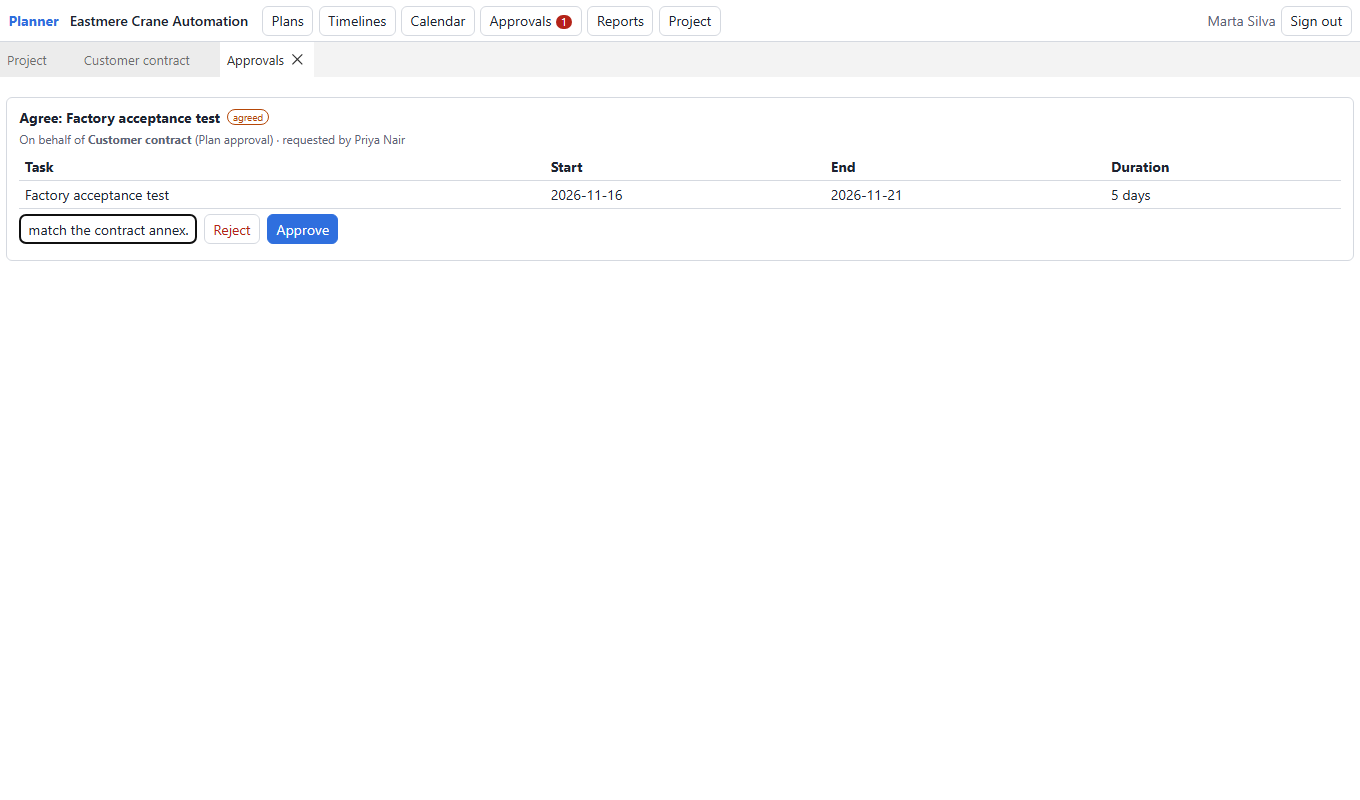
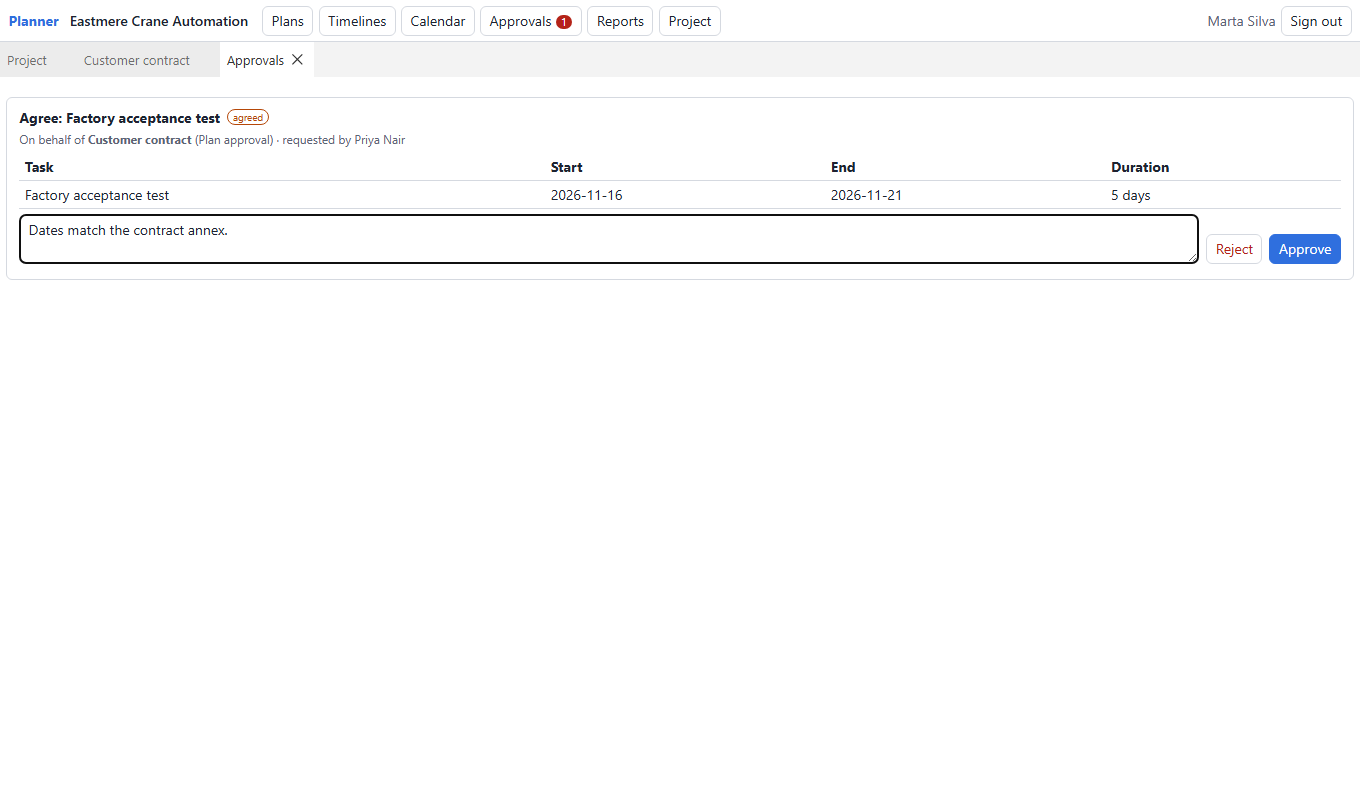
Adjusted styles.

Changed region(s): [[0.0, 0.25, 0.9882, 0.3438]]

diff --git a/client/src/views/reports/ReportsView.tsx b/client/src/views/reports/ReportsView.tsx
@@ -92,7 +92,7 @@ function NewReportForm({ onCreated }: { onCreated(): void }) {
                 checked={baselineIds.includes(b.id)}
                 onChange={() => toggle(baselineIds, setBaselineIds, b.id)}
               />
-              {b.name}
+              {plans.find((p) => p.id === b.planId)?.name}: {b.name}
             </label>
           ))}
         </fieldset>

diff --git a/client/src/styles.css b/client/src/styles.css
@@ -256,6 +256,15 @@ button:disabled {
   gap: 0.5rem;
   margin: 0.25rem 0;
 }
+/* On its own line inside a list item, with the comment taking the free width. */
+.pp-decision {
+  flex: 1 1 100%;
+}
+.pp-decision textarea {
+  flex: 1 1 16rem;
+  min-width: 0;
+  resize: vertical;
+}
 .pp-used-in {
   list-style: none;
   padding: 0;

diff --git a/client/src/views/approvals/ApprovalParts.tsx b/client/src/views/approvals/ApprovalParts.tsx
@@ -54,8 +54,9 @@ export function DecisionControls({
       (ok) => ok && onDecided?.(),
     );
   return (
-    <div className="pp-row">
-      <input
+    <div className="pp-row pp-decision">
+      <textarea
+        rows={2}
         placeholder="Comment"
         aria-label="Comment"
         value={comment}

diff --git a/CLAUDE.md b/CLAUDE.md
@@ -1,4 +1,4 @@
-# CLAUDE.md — Multi-user Project Planning System
+# CLAUDE.md — Multi-user Project Planning (MUPP) System
 
 This file gives Claude (and developers) context for working in this repository. Read all of it before making changes.
 
